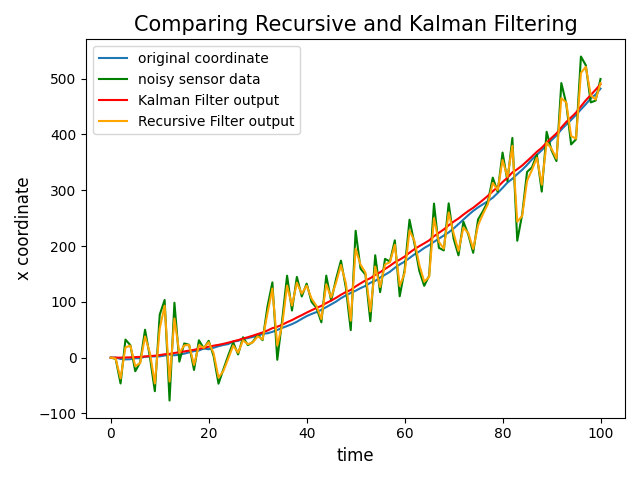
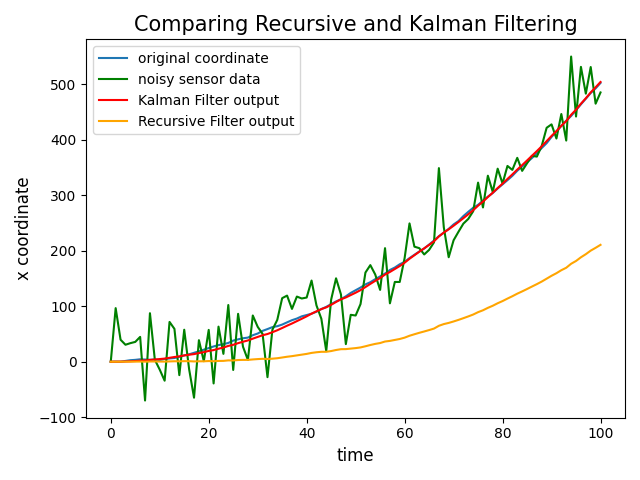
modified 3

diff --git a/hw2/main.py b/hw2/main.py
@@ -85,7 +85,7 @@ if __name__ == '__main__':
     # Home work 2: Create simplified recursive filter and compare its results with 1D Kalman filter
     xRec = np.zeros(N + 1)
     for k in range(1, N + 1):
-        xRec[k] = (1 - 0.8) * xRec[k - 1] + 0.8 * z[k]
+        xRec[k] = (1 - K[k]) * xRec[k - 1] + K[k] * z[k]
 
     plt.title('Comparing Recursive and Kalman Filtering', fontsize=15)
     plt.xlabel('time', fontsize=12)
